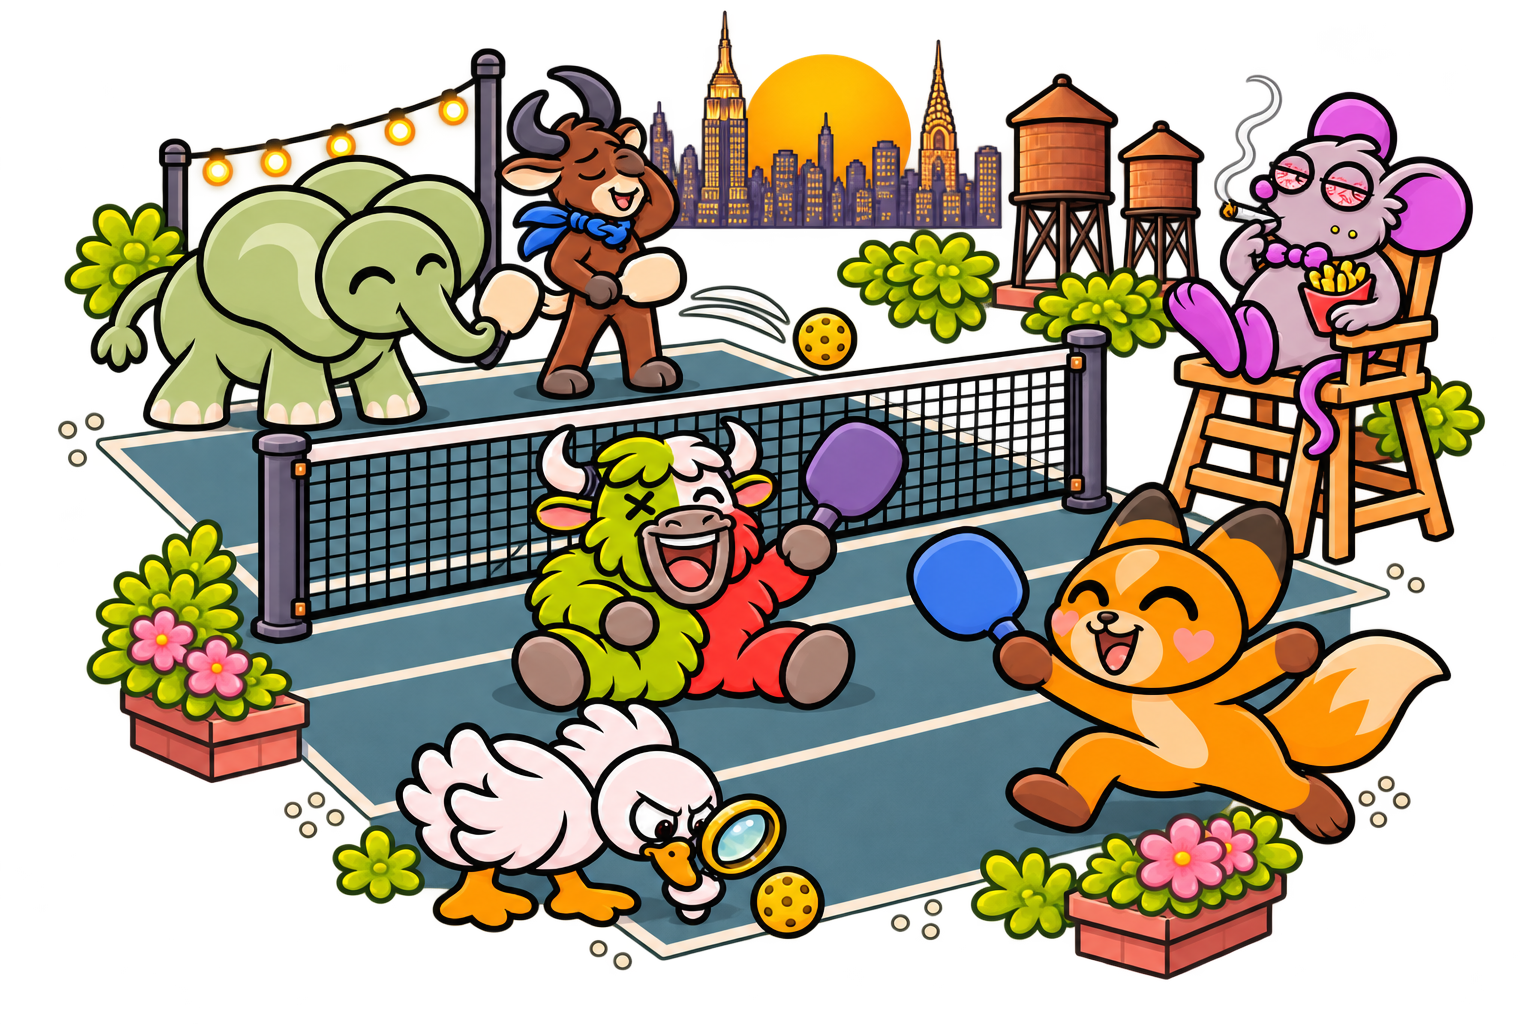
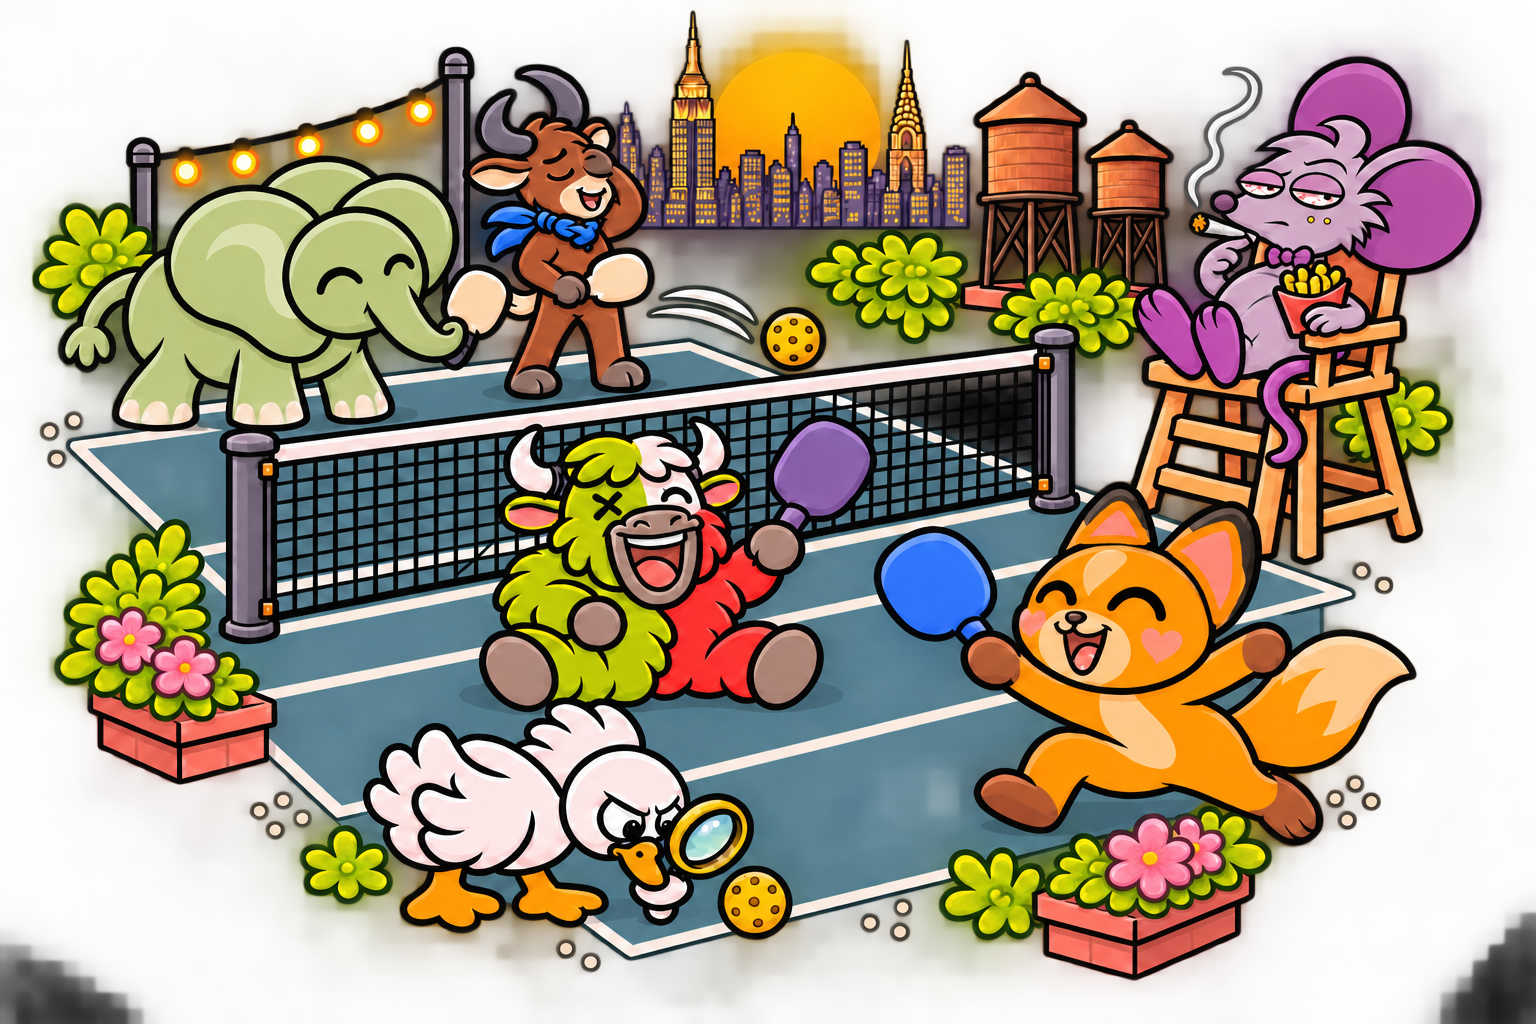
Prepare approved purple rat artwork across six merch scenes

diff --git a/design/purple-rat-artwork/README.md b/design/purple-rat-artwork/README.md
@@ -1,0 +1,5 @@
+Approved purple Slab Rat rollout, 2026-11-07. Built-in image_gen edits; native Resvg print composition.
+All final scenes inspected for one tail, two hands and two feet; food is held in paws.
+Portland: lobster roll, no smoking/bloodshot eyes. New Orleans: rolled bill and beignet-sugar gag, no smoking.
+Pickleball Foxy: pink inner ears, black tips, smooth head. Cities retain full skyline scenes.
+Production PNGs: public/shop/designs/purple-rat-2026-11. Print-area sizes and all variants preserved.
